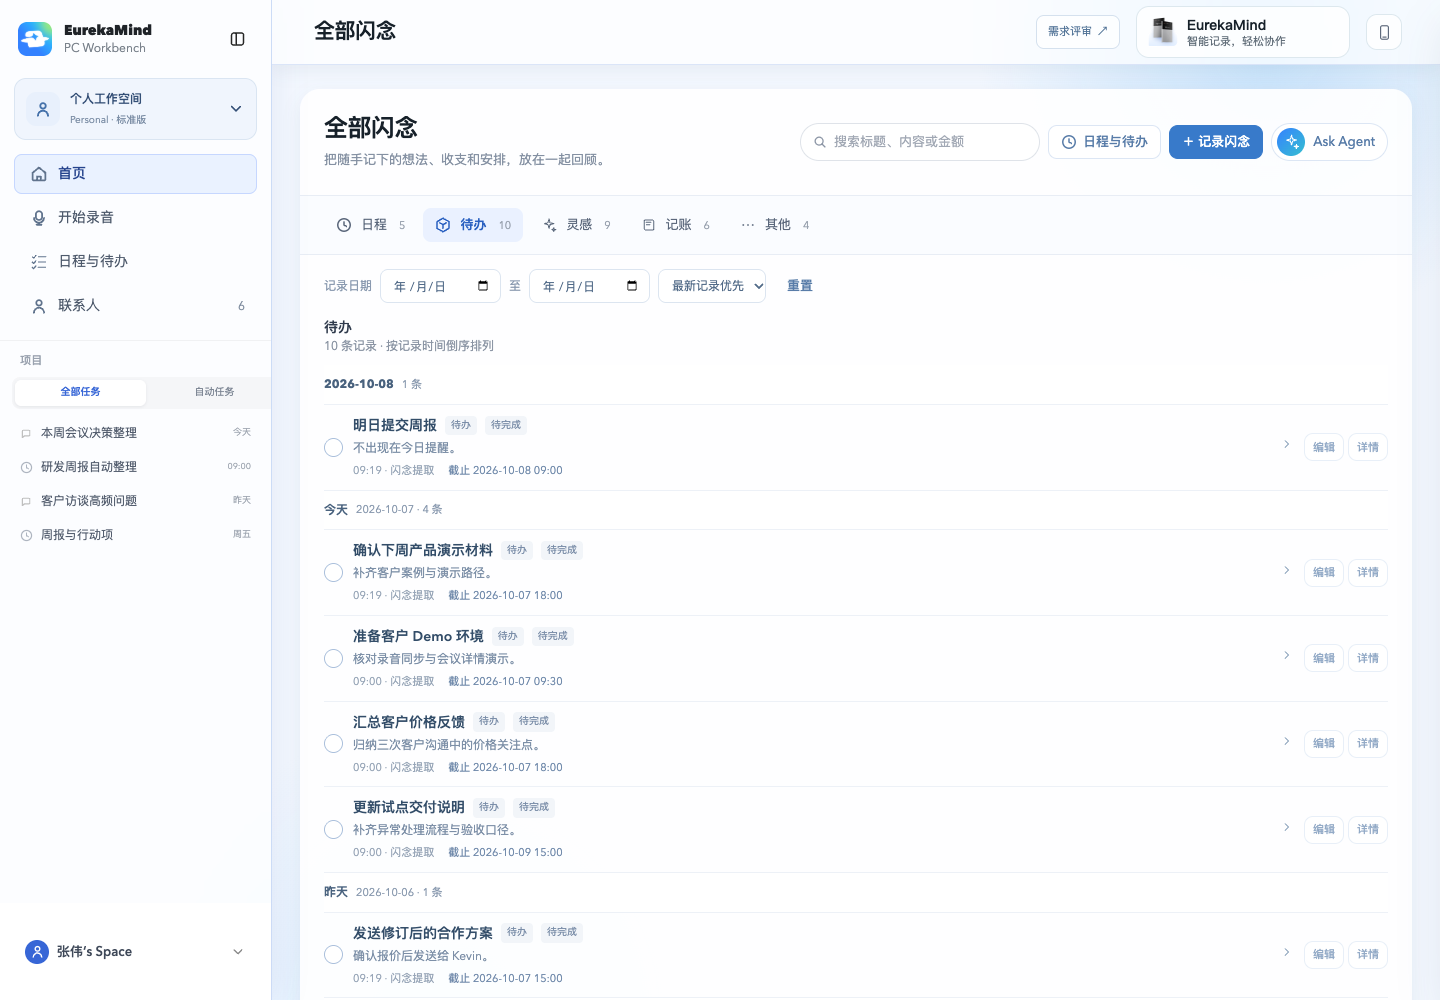
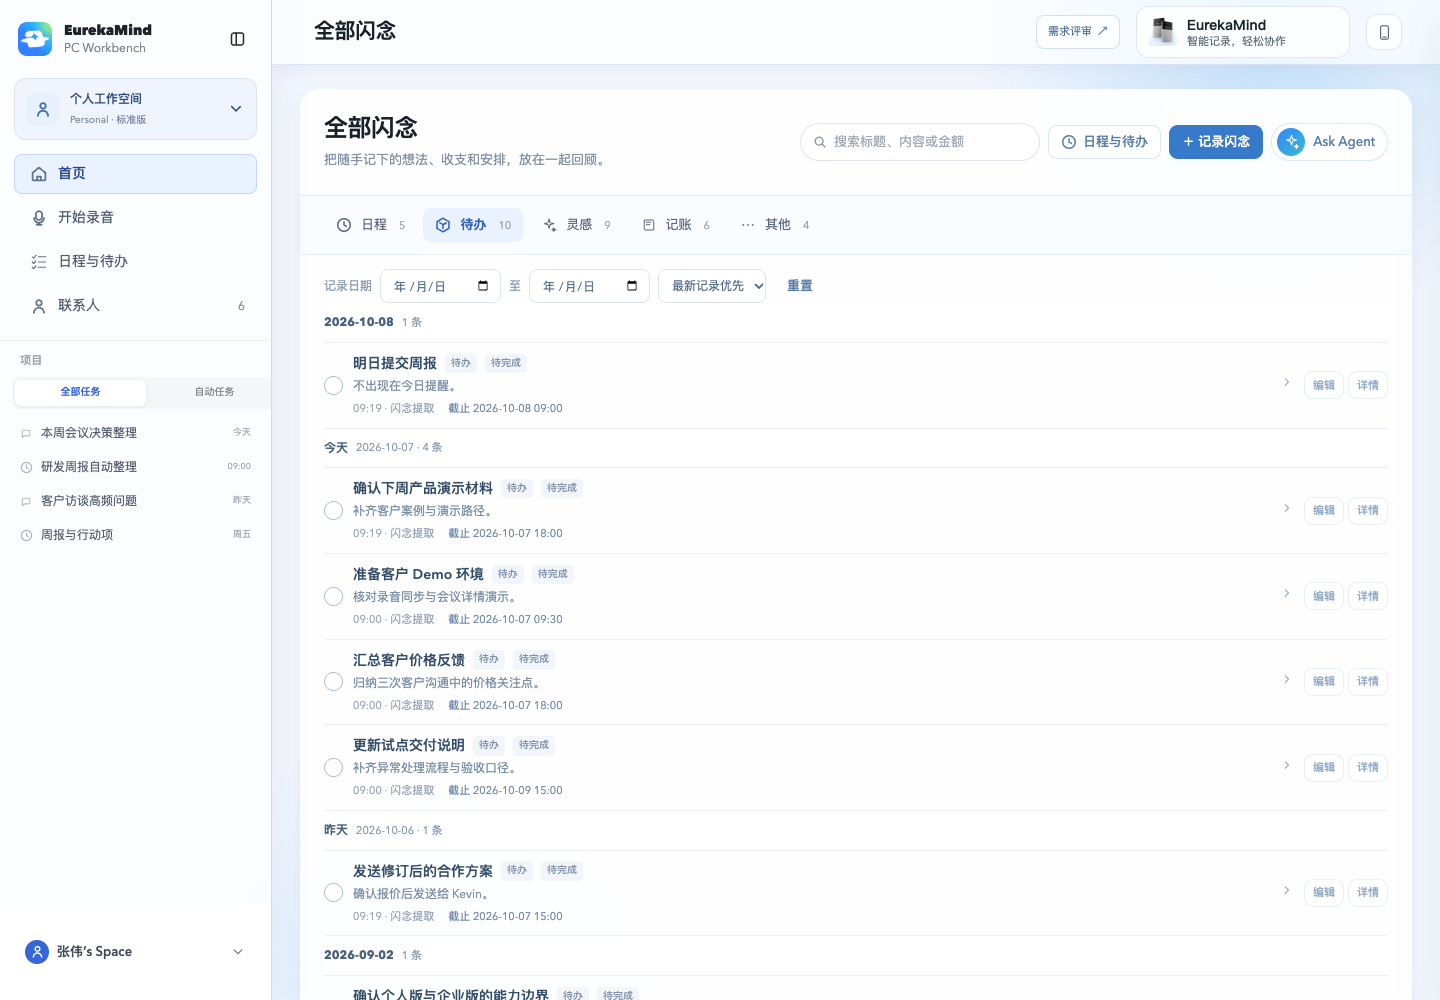
Remove redundant thought category summary blocks

diff --git a/src/prototype/one-to-one-reference/assets/thoughts.css b/src/prototype/one-to-one-reference/assets/thoughts.css
@@ -12,7 +12,7 @@
 #thought-workspace .thought-category-button svg{width:16px;height:16px}#thought-workspace .thought-category-button em{font-size:11px;margin-left:5px}
 .th-filters{display:flex;flex-wrap:wrap;align-items:center;gap:8px;padding:14px 24px 0;color:#8a9ab0;font-size:12px}
 .th-filters label{display:flex;align-items:center;gap:8px}.th-filters input,.th-filters select{height:34px;min-width:0;border:1px solid #dce5f0;border-radius:8px;padding:5px 9px;color:#526b88;background:#fff;font-family:inherit;font-size:12px}
-#thought-workspace .thought-file-pane-head{padding:16px 24px 12px;display:flex;gap:10px;align-items:center;justify-content:space-between;border-bottom:0}
+#thought-workspace .thought-file-pane-head{display:none}
 #thought-workspace .thought-file-pane-head strong{font-size:14px}#thought-category-description{font-size:12px}
 .th-handoff{font-size:11px;color:#8b9bb0;text-align:right}
 #thought-workspace .thought-file-table-scroll{overflow:visible}.thought-file-table-head[hidden]{display:none}

diff --git a/src/prototype/one-to-one-reference/team-only-app.html b/src/prototype/one-to-one-reference/team-only-app.html
@@ -5340,7 +5340,7 @@
 <link rel="stylesheet" href="assets/personal-assets.css?v=4">
 <script src="assets/personal-assets-model.js?v=2"></script>
 <script src="assets/personal-assets-ui.js?v=8"></script>
-<link rel="stylesheet" href="assets/thoughts.css?v=2">
+<link rel="stylesheet" href="assets/thoughts.css?v=3">
 <script src="assets/thoughts-model.js?v=1"></script>
 <script src="assets/thoughts-ui.js?v=2"></script>
 <script src="assets/personal-action-popup.js?v=1"></script>
